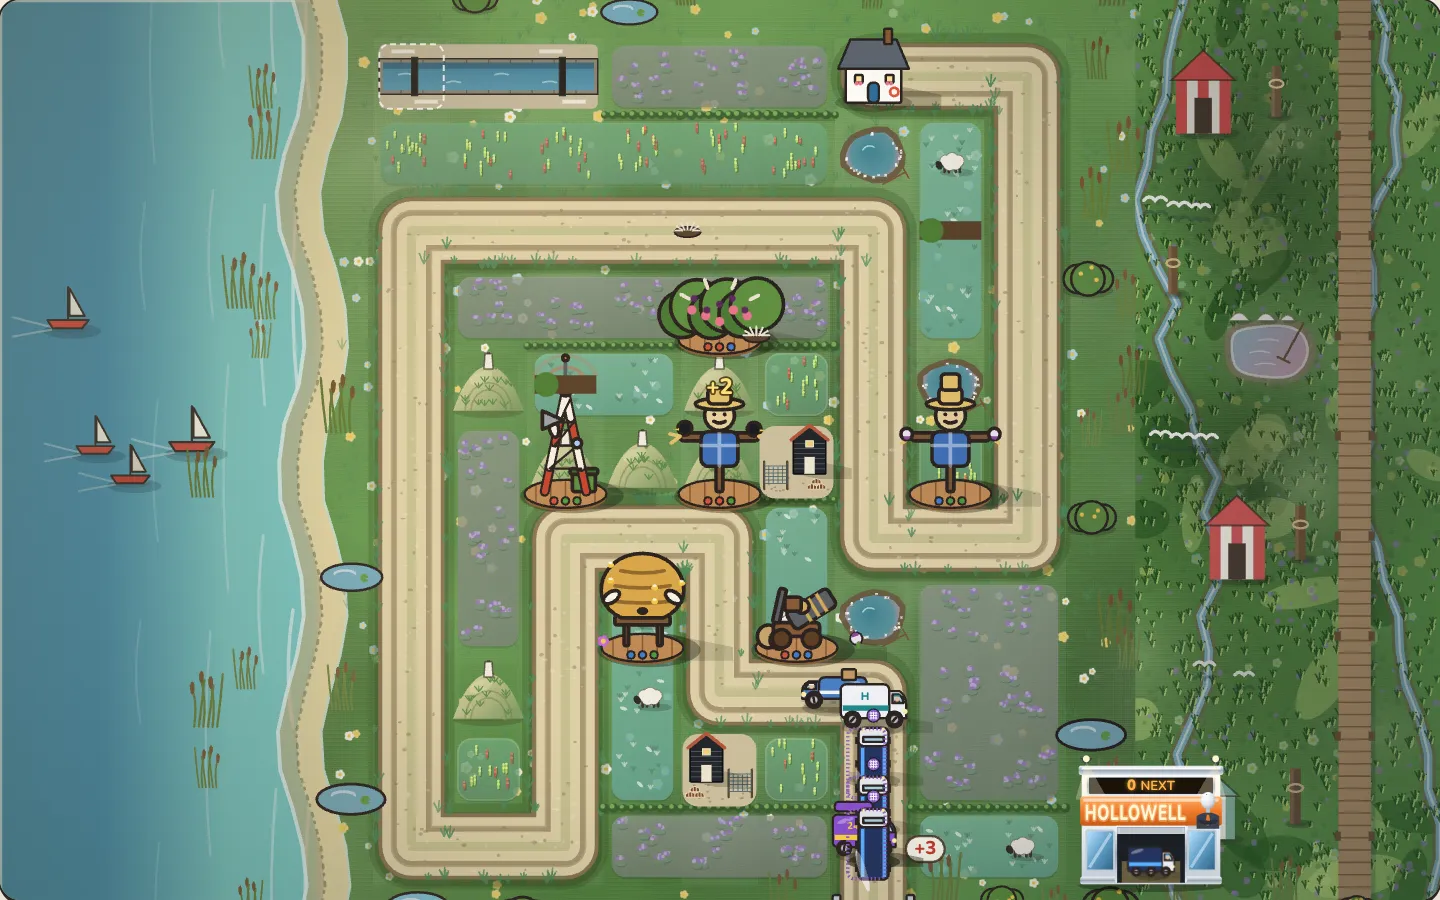
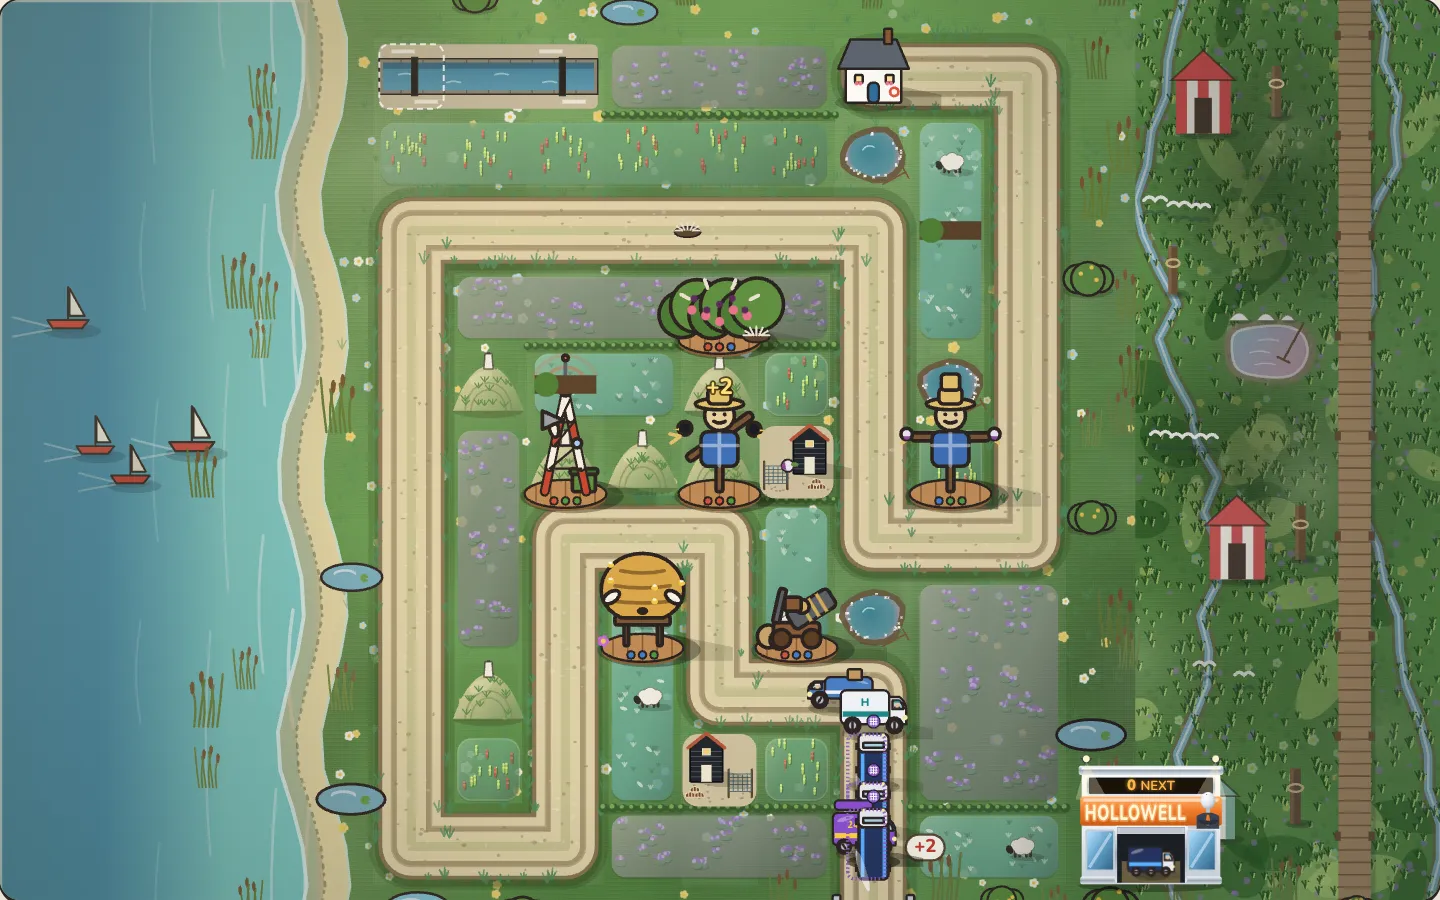
440 slice 2: Hedgerow 2D beds lit by the act's sun: each bed's sun-side edge catches a warm light and its far side falls into shade, the same way the cast shadows fall; key art re-shot; hedgerow field/fieldkit/cath2d pass (15)
Claude-Session: https://claude.ai/code/session_01SimvMPB319cCQgjkucXjGQ

Changed region(s): [[0.5312, 0.7467, 0.6562, 0.9644], [0.4688, 0.4356, 0.5312, 0.5289], [0.5312, 0.4978, 0.5625, 0.5289]]

diff --git a/games/hedgerow/src/theme.ts b/games/hedgerow/src/theme.ts
@@ -7,6 +7,7 @@ import { laneCellsOf, plotKind, sceneryCells, type Level } from "./engine";
 import { fieldAt, plotLooks, sameField, type PlotLook } from "./plotlook";
 import { kitFor, type BedLook } from "./fieldkit";
 import { isKitBed, paintKitBed, paintKitWater, paintKnollDress } from "./fieldkitart";
+import { shadowDir } from "./sunlight";
 import { paintLandmarks, paintTwistDressing } from "./landmarkart";
 import { DECOR_PIECES, MARGIN_SETS, paintBoardwalk, paintGround, paintPiece, pieceLook, placeMargin, recordMargin, seeded, withLooks, type Look, type Placed, type Rect } from "./margins";
 
@@ -695,6 +696,7 @@ function paintPlots(ctx: CanvasRenderingContext2D, level: Level, L: Layout): voi
   }
   const scenery = sceneryCells(level);
   const looks = plotLooks(level);
+  const away = shadowDir(level.id);
   for (let r = 0; r < level.rows; r++) {
     for (let c = 0; c < level.cols; c++) {
       if (lane.has(`${c},${r}`) || scenery.has(`${c},${r}`)) continue;
@@ -720,11 +722,13 @@ function paintPlots(ctx: CanvasRenderingContext2D, level: Level, L: Layout): voi
             // Furrows run the field's long way (a square field picks by seed).
             const across = n > m || (n === m && (c * 31 + r * 17 + level.id) % 2 === 0);
             paintPlot(ctx, x, y, s, look, across, c * 131 + r * 71 + level.id * 7, n, m);
+            if (look !== "puddle") litBed(ctx, x, y, s, n, m, away);
           }
         } else if (!join(c, -1)) {
           let n = 1;
           while (join(c + n - 1, 1)) n++;
           paintPlot(ctx, x, y, s, look, n > 1 || (c * 31 + r * 17 + level.id) % 2 === 0, c * 131 + r * 71 + level.id * 7, n);
+          if (look !== "puddle") litBed(ctx, x, y, s, n, 1, away);
         }
         if (look === "puddle") paintPuddle(ctx, x, y, s, c * 131 + r * 71 + level.id * 7);
         // Item 345: where this field meets a different crop below, a low hedge runs along the grass between them.
@@ -874,6 +878,28 @@ function paintPuddle(ctx: CanvasRenderingContext2D, x: number, y: number, s: num
 }
 
 /** Plan item 52: a plot drawn by what lies under it; item 345: a field of `n` by `m` plots as one bed. */
+/**
+ * Plan item 440: each bed lit by the act's sun: its sun-side edge catches the light and its far side falls into
+ * shade, across the whole field (the same direction the cast shadows fall), so the beds read as ground under one sun.
+ */
+function litBed(ctx: CanvasRenderingContext2D, x: number, y: number, s: number, n: number, m: number, away: { x: number; y: number }): void {
+  const i = s * 0.1;
+  const bx = x + i, by = y + i, bw = n * s - i * 2, bh = m * s - i * 2;
+  const cx = bx + bw / 2, cy = by + bh / 2;
+  const R = (Math.abs(away.x) * bw + Math.abs(away.y) * bh) / 2;
+  const g = ctx.createLinearGradient(cx - away.x * R, cy - away.y * R, cx + away.x * R, cy + away.y * R);
+  g.addColorStop(0, "rgba(255,244,214,0.16)");
+  g.addColorStop(0.35, "rgba(255,244,214,0)");
+  g.addColorStop(0.6, "rgba(28,34,18,0)");
+  g.addColorStop(1, "rgba(28,34,18,0.18)");
+  ctx.save();
+  ctx.fillStyle = g;
+  ctx.beginPath();
+  ctx.roundRect(bx, by, bw, bh, s * 0.18);
+  ctx.fill();
+  ctx.restore();
+}
+
 function paintPlot(ctx: CanvasRenderingContext2D, x: number, y: number, s: number, look: PlotLook, across: boolean, seed: number, n = 1, m = 1): void {
   // Plan item 399: an act's own beds (Saltmarsh's samphire, Rivermead's drains...) have their own art.
   if (isKitBed(look)) {
